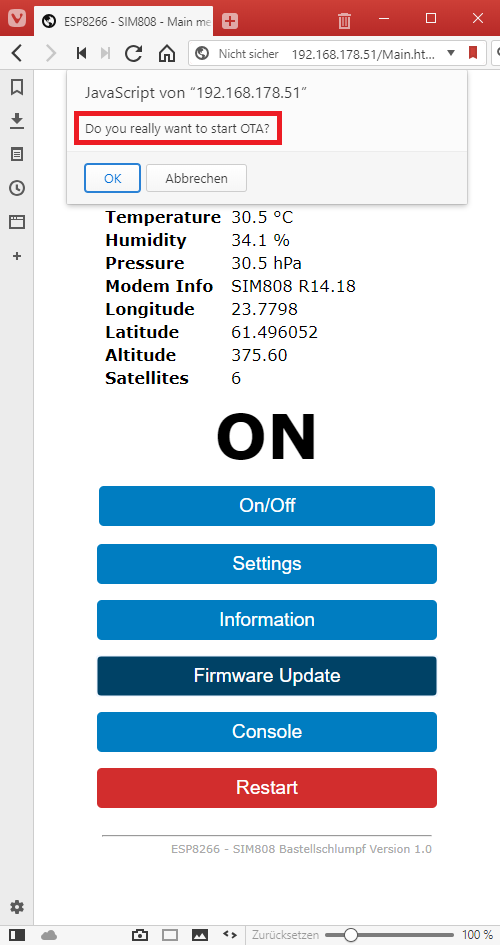
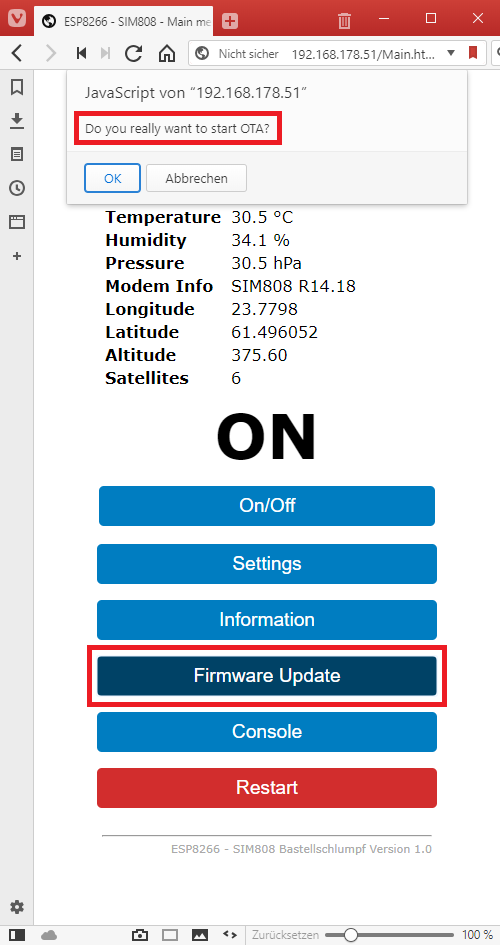
Enhancement of the documentation

Changed region(s): [[0.15, 0.6751, 0.9, 0.7672]]

diff --git a/docs/SMS.md b/docs/SMS.md
@@ -1,3 +1,107 @@
 ### Using the sms interface
 
+The Snorktracker can receive and send SMS using the GSM module. 
+The SMS function must be activated under Settings and 
+and the correct answer phone number must be entered.
 
+The following commands are implemented:
+Note: All commands are case insensitive.
+
+#### Switch On or off
+
+You can switch the system on or off if you send a
+**on** or **off** sms to the sim-card phone number.
+If the system accepted the command it sends a 
+
+    **on -> OK** 
+or 
+
+    **off -> OK** 
+back.
+
+#### Send back the status of the system
+
+You can query the system for the main information if you send
+**status** to the Modul phone number.
+The system should then response with the following result:
+
+    Status: 
+    Sim808 gsm connected
+    Voltage: 12.2V
+    Temperature: 26.5 C
+    Humidity: 40%
+    Pressure: 1006 hPa
+    Altitude: 400 m
+    Speed: 0 kmph
+    Satellites: 5
+    https://maps.google.com/maps?q=61.496052,23.7798"
+
+#### Change the 'Power save mode'
+
+If your system is in deep sleep it could be very tricky to catch the time when the system awakened.
+It is much easier to send a 'popwer save mode off' via sms to the module.
+To do that you have to send a **psm:off** to the system phone number and wait for a successful response
+
+    **psm:off -> OK** 
+
+Afterwards you can switch on the power save mode via the web interface or by sending a 
+**psm** sms.
+
+    **psm -> OK** 
+
+#### Ask for the current gps position
+
+If you want to know the gps position of your system you can send a simple sms with **gps**.
+If the gps awake the next time and the gps tracking is active then you will receive a URL 
+with the current gps position as an google request.
+
+This URL can then easily be opened via your browsers in google and if everything works you 
+will see the current location of the module on a Google map
+
+    https://maps.google.com/maps?q=61.496052,23.7798"
+
+#### Set some sms parameter
+
+You can change the interval at which the system polls incoming SMS.
+For this you can send i.e. the following command
+
+**sms:15**
+
+This change the interval to 15 seconds.
+The response should be 
+
+    sms:15 -> OK
+
+#### Set some mqtt parameter
+
+If you want to change the mqtt interval for sending data on moving or standing you can use the command sms
+**mqtt:30:60**
+This sets the interval on moving to 30 seconds and the interval on not moving to 30 seconds.
+The response should be 
+
+    mqtt:30:60 -> OK
+
+### Change the response phone number
+
+If you want to change the phone number to which the result should go then you can do this with:
+
+**phone:123456789**
+
+Then the new mobile phone number should receive the following result sms.
+
+    phone:123456789 -> OK
+
+#### Or send back the command list
+
+If the system receives an invalid command then it sends back the list of commands:
+
+    wrong command
+    on
+    off
+    status
+    psm[:off] - power saving mode
+    gps[:15] - check every (sec)
+    sms[:15] - check every (sec)
+    mqtt[30:60] - (moving:standing (sec)
+    phone:1234
+ 

diff --git a/docs/Information.md b/docs/Information.md
@@ -1,3 +1,37 @@
 
 ### Display system information
    ![Figure 1](../images/Information.png "Figure 1")
+
+Note: Some of the informations may be not visible if the function is not enabled.
+
+| Name | Sample | Description |
+|------|--------|-------------|
+|Status| Sim808 gsm connected |The current status of the wemos - sim808|
+|AP1 SSID (RSSI)|WLAN (46%)|The name of the connected Wi-Fi access point and the qualitity of the signal.|
+|Locale IP| 192.168.178.51 |The current IP of the Tracker|
+| | | |
+|Modem Info|SIM808 R14.18|The response of the SIM808 modem-info AT request|
+|Modem IP|10.84.199.14|The IP of the gsm modul when connected to the INTERNET|
+|IMEI|865067|The IMEI of your SIM card|
+|COP|SWISS GSM|Your GSM operator|
+|Signal Quality|19|The quality of the current signal|
+|Battery Level|78|The quality of the power supply to the sim808 modul. This can be ignored because it should be fix with the DC-DC modul.|
+|Battery Volt|4.02|The Volt of the power supply to the sim808 modul. This can be ignored because it should be fix with the DC-DC modul.|
+| | | |
+|Longitude|23.7798|The longitude value of your gps position.|
+|Latitude|61.496052|The latitude value of your current gps position.|
+|Altitude|375.70|The current altitude in meter|
+|Km/h|0.31|The current speed in km/h|
+|Satellites|6|The number of fix satellites for the current gps position|
+|Course|88.50|The course in degrees|
+|GPS Datum|12-11-2018|The datum from the gps satellites in UTC|
+|GPS Time|17:18:38|The time from the gps satellites in UTC|
+| | | |
+|ESP Chip ID|11597957|The internal ID of the esp chip|
+|Flash Chip ID|1327185|The internal ID of the ESP flash memory chip|
+|Real Flash Memory|1024 kB|The actual chip size based on the flash id|
+|Total Flash Memory|1024 kB|The size of the flash as set by the compiler|
+|Used flash Memory|384 kB|The sketch size in memory|
+|Free Sketch Memory|552 kB|The free sketch memory|
+|Free Heap Memory|20 kB|Free heap memory for variables|
+

diff --git a/docs/OTA.md b/docs/OTA.md
@@ -1,3 +1,24 @@
 ### Firmware Update 'over the air'
 
+OTA (Over the Air) update is the process of loading the firmware into the Modul via a Wi-Fi connection and 
+not via a serial port. This functionality can be very useful if the device is already installed or 
+difficult to access.
+
+For information about OTA, simply search the Internet for the keywords ESP8266 and OTA or take a look at the page:
+
+ [**OTA Update ESP8266**](http://esp8266.github.io/Arduino/versions/2.0.0/doc/ota_updates/ota_updates.html)
+
+Start the OTA functionality by pressing the 'Firmware update' button and answering the security question with Yes. 
+
    ![Figure 1](../images/OTA.png "Figure 1")
+
+If the OTA function could be started successfully, the following display appears:
+
+   ![Figure 2](../images/OTAActive.png "Figure 2")
+
+And in your Arduino environment the OTA connection should be displayed under 'Port'. If this is not the case, 
+sometimes restarting the Arduino IDE will help.
+
+   ![Figure 3](../images/OTAArduino.png "Figure 3")
+
+**Note:** Unfortunately this only works to update the Snorktracker software and not to transfer the SPIFFS web server files.

diff --git a/docs/Console.md b/docs/Console.md
@@ -1,4 +1,21 @@
 
 ### Work with the console
+
+With the console page you can monitor the activities of your system and send your 
+own commands to the SIM808 module.
+
+You can set the level of detail using the **Debug Active** option.
+
+Note: To communicate with the SIM808 module this must be switched on
+
    ![Figure 1](../images/Console.png "Figure 1")
 
+If you want to send your own AT commands to the SIM808 it is advisable to deactivate the 
+SMS, GPS and MQTT functions under Settings during this time, otherwise they may interfere 
+with your commands.
+
+For details see
+
+[**SIM800 AT commands**](https://www.elecrow.com/download/SIM800%20Series_AT%20Command%20Manual_V1.09.pdf)
+
+[**SIM808 GPS AT commands**](https://cdn-shop.adafruit.com/datasheets/SIM808_GPS_Application_Note_V1.00.pdf)

diff --git a/docs/SwitchOnOff.md b/docs/SwitchOnOff.md
@@ -1,3 +1,15 @@
 ### Switch on/off
 
    ![Figure 1](../images/OnOff.png "Figure 1")
+
+You can switch on or switch off the system with the first button on the main page.
+
+On/Off only affects GPS, SMS and MQTT functions (if enabled).
+The ambient sensor independently checks the temperature, air pressure and humidity 
+after the set time interval.
+
+When switching on the GSM function it may happen that the system does not react 
+for a short time. The simplest way to monitor that no errors occur is to switch 
+to the console view immediately after switching on and display the communication.
+
+   ![Figure 2](../images/Console.png "Figure 2")

diff --git a/docs/Restart.md b/docs/Restart.md
@@ -2,3 +2,6 @@
 
    ![Figure 1](../images/Restart.png "Figure 1")
 
+Should it be necessary that you want to restart the system, you can do so via the Restart button.
+
+Afterwards the system displays the current IP in a MessageBox and asks for confirmation.
